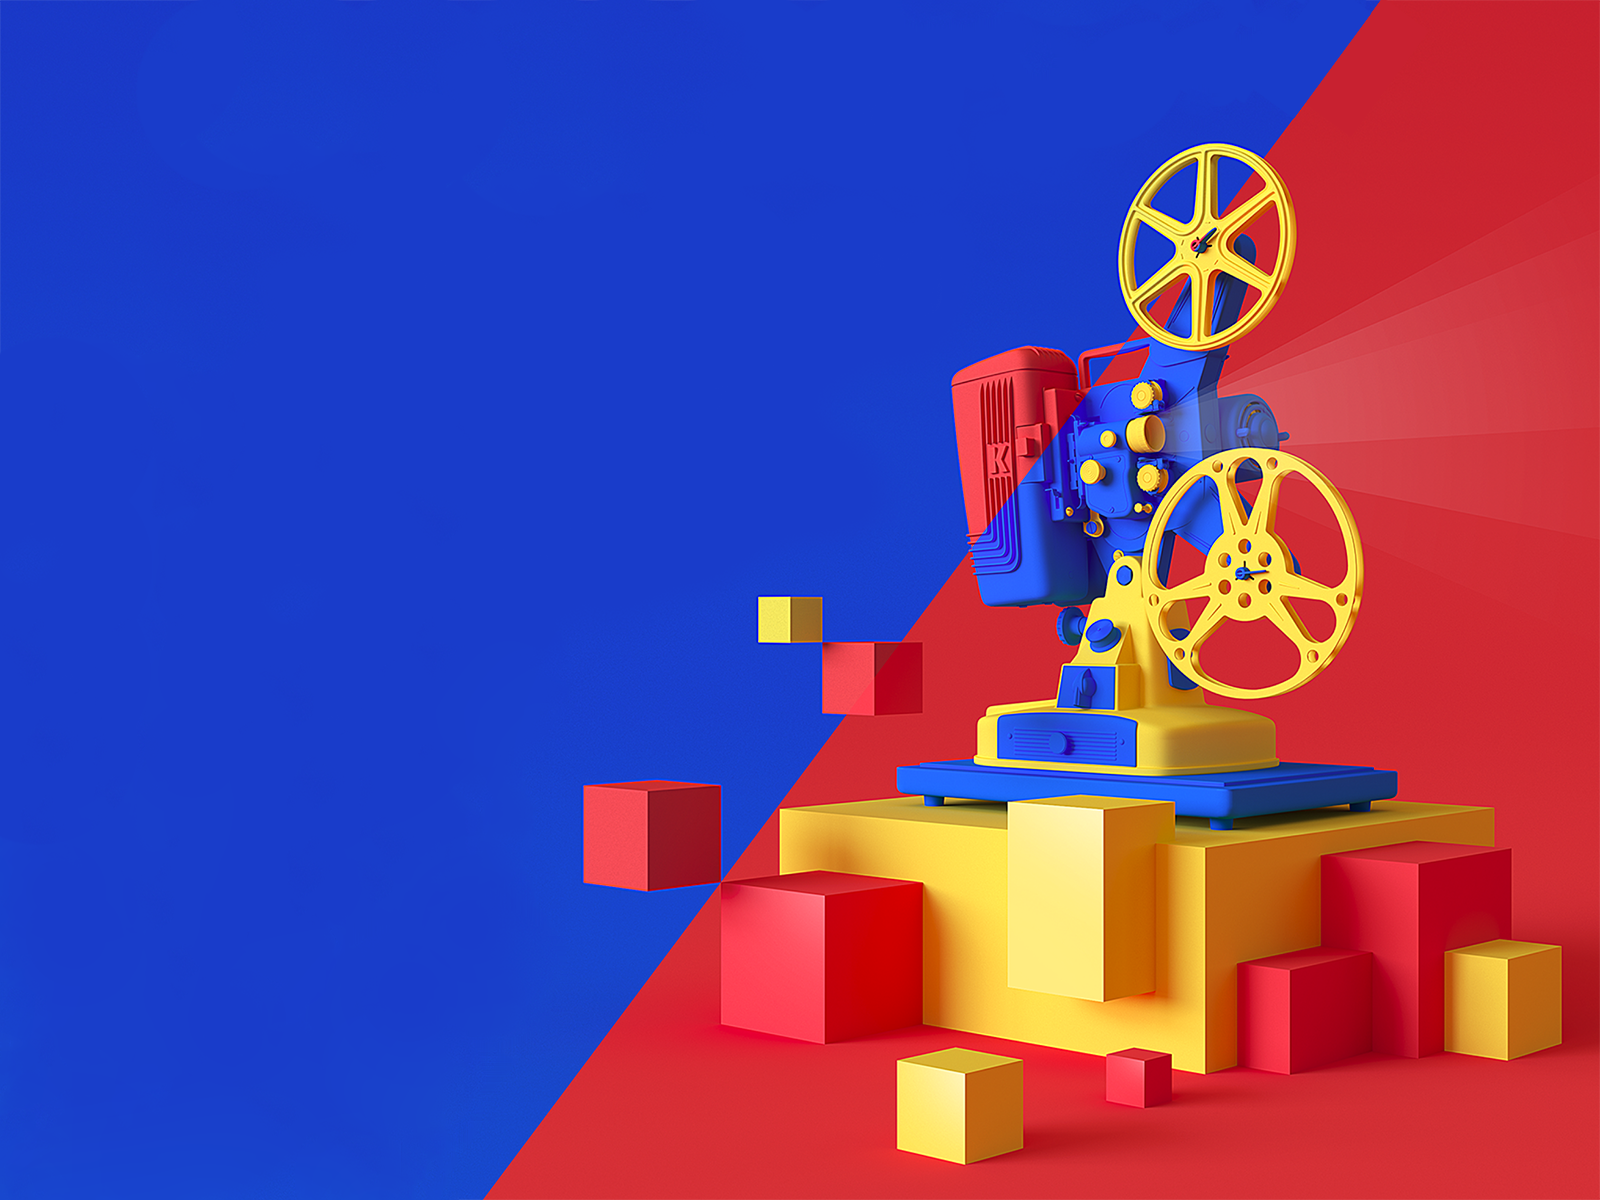
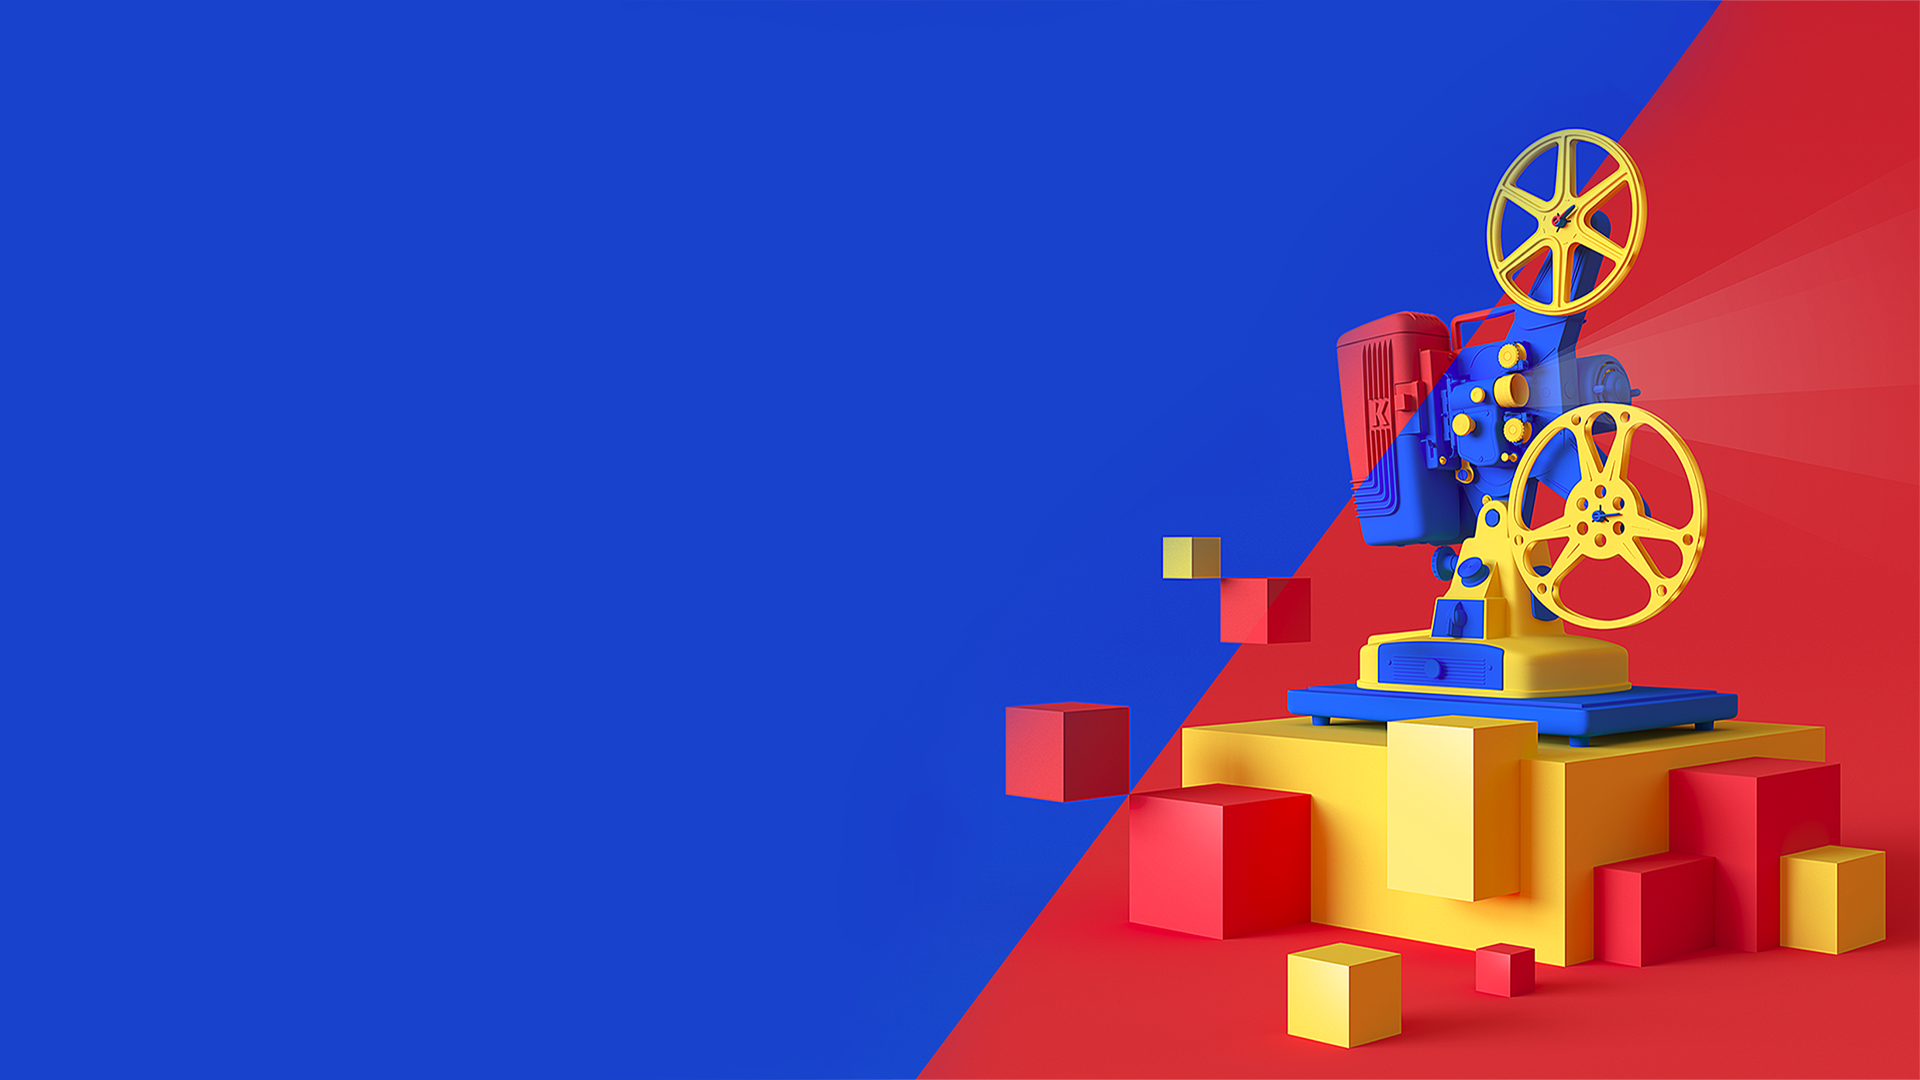
Pop-up ready

Changed region(s): [[0.2812, 0.0, 1.0, 1.0]]

diff --git a/style.css b/style.css
@@ -6,17 +6,16 @@
     /* border: 1px solid red; */
 }
 
-
-
 body {
     background-image: url('background.png');
-    min-height: 100vh;
-    max-height: 100%;
-    max-width: 100%;
-    background-size: cover;
+    /* min-height: 100vh; */
+    /* max-height: 100%;
+    max-width: 100%; */
+    /* background-size: contain; */
+    background-repeat: no-repeat;
     margin: 50px 200px 0px 200px;
     font-family: 'Montserrat', sans-serif;
-    
+    background-position: center center;
     height: 100%;
 }
 
@@ -37,11 +36,18 @@ nav li {
     padding: 0;
 }
 
+#signin,
 #signup {
+    color: #ffffff;
+    text-decoration: none;
+    padding: 20px 40px 20px 40px;
+}
+
+#signin:hover,
+#signup:hover {
     color: #000b60;
     background-color: #ffffff;
     border-radius: 5px;
-    padding: 20px 40px 20px 40px;
     font-weight: bold;
 }
 
@@ -54,6 +60,11 @@ header ul li {
     padding: 0;
     list-style: none;
     display: flex;
+}
+
+.leftButton {
+    text-decoration: none;
+    color: #ffffff;
 }
 
 #logo {
@@ -83,6 +94,8 @@ header ul li {
 }
 
 .button {
+    position: absolute;
+    text-decoration: none;
     border-radius: 8px;
     border: none;
     padding: 20px 30px;
@@ -91,18 +104,25 @@ header ul li {
     color: #ffffff;
     font-size: 12px;
     font-weight: 600;
+    cursor: pointer;
+    transition: all 0.3s ease-out;
 }
 
-a[title="home"] {
+.button:hover {
+    opacity: 0.8;
+}
+
+.leftButton:hover {
     border-bottom: 3px solid white;
 }
 
 .dots {
     display: flex;
+    height: 50px;
     justify-content: flex-start;
     padding-left: 0;
-	align-items: center;
-	margin-top: 150px;
+    align-items: center;
+    margin-top: 150px;
 }
 
 .dot {
@@ -114,9 +134,7 @@ a[title="home"] {
     margin-right: 20px;
 }
 
-
-
-#roundDot {
+/* #roundDot {
     height: 20px;
     width: 20px;
     background-color: none;
@@ -124,16 +142,94 @@ a[title="home"] {
     border-radius: 50%;
     display: inline-block;
     margin-right: 20px;
-    /* height: 13px;
-    width: 13px;
-    background-color: #4677ff;
+} */
+
+.dot:hover {
+    height: 20px;
+    width: 20px;
+    background-color: transparent;
+    border: 4px solid #ffb800;
     border-radius: 50%;
     display: inline-block;
-    margin-right: 20px; */
+    margin-right: 20px;
 }
 
 footer {
-    height: 100%;
     bottom: 0;
     flex-shrink: 0;
 }
+
+.overlay {
+    position: fixed;
+    top: 0;
+    bottom: 0;
+    left: 0;
+    right: 0;
+    background: rgba(0, 0, 0, 0.7);
+    transition: opacity 500ms;
+    visibility: hidden;
+    opacity: 0;
+}
+
+.overlay:target {
+    visibility: visible;
+    opacity: 1;
+}
+
+.popup {
+    margin: 70px auto;
+    padding: 20px;
+    background: #515E82;
+    border-radius: 5px;
+    height: 80%;
+    width: 40%;
+    position: relative;
+	transition: all 2s ease-in-out;
+	color: white;
+}
+
+.popup .close {
+    position: absolute;
+    top: 20px;
+    right: 30px;
+    transition: all 200ms;
+    font-size: 50px;
+    font-weight: bold;
+    text-decoration: none;
+    color: white;
+}
+
+.popup .content {
+    max-height: 30%;
+}
+
+.tab {
+    color: white;
+    border-color: #1161ee;
+    text-transform: uppercase;
+    font-size: 22px;
+    margin-right: 15px;
+    padding-bottom: 5px;
+    margin: 0 15px 10px 0;
+    display: inline-block;
+    border-bottom: 2px solid transparent;
+}
+
+.check {
+    display: none;
+}
+
+.sign-in:checked+.tab,
+.sign-up:checked+.tab {
+    border-bottom: 3px solid white;
+}
+
+input {
+    visibility: hidden;
+}
+.topButtons{
+
+	padding-top: 40px;
+
+}
+

diff --git a/index.html b/index.html
@@ -13,14 +13,14 @@
         <nav class="navigation">
             <img id="logo" src="Logo.png">
             <ul class="left">
-                <li><a title="home">HOME</a></li>
-                <li><a title="products">PRODUCTS</a></li>
-                <li><a title="templates">TEMPLATES</a></li>
-                <li><a title="pricing">PRICING</a></li>
+                <li><a href="index.html" class="leftButton" title="home">HOME</a></li>
+                <li><a href="#products" class="leftButton" title="products">PRODUCTS</a></li>
+                <li><a href="#products" class="leftButton" title="templates">TEMPLATES</a></li>
+                <li><a href="#pricing" class="leftButton" title="pricing">PRICING</a></li>
             </ul>
             <ul class="right">
-                <li><a title="signin">SIGN IN</a></li>
-                <li><a title="signup" id="signup">SIGN UP</a></li>
+                <li><a href="#signin" title="signin" id="signin">SIGN IN</a></li>
+                <li><a href="#signup" title="signup" id="signup">SIGN UP</a></li>
             </ul>
         </nav>
     </header>
@@ -33,19 +33,34 @@
                 <p class="text">for your ads, social media, blogs and websites.</p>
                 <p class="text">Make your project stand out!</p>
 
-            </article>
-            <button class="button" type="button">CREATE DESIGN ➜</button>
-        </section>
 
+            </article>
+            <a class="button" href="#popup1" type="button">CREATE DESIGN ➜</a>
+            <div id="popup1" class="overlay">
+                <div class="popup">
+                    <div class="topButtons">
+                        <input id="tab-1" type="radio" name="tab" class="sign-in" checked><label for="tab-1" class="tab">Sign
+                            In</label>
+                        <input id="tab-2" type="radio" name="tab" class="sign-up"><label for="tab-2" class="tab">Sign
+                            Up</label>
+
+                    </div>
+                    
+                    <a class="close" href="#">&times;</a>
+                    
+                </div>
+            </div>
+        </section>
     </main>
+
     <footer>
 
-<ul class="dots">
-    <li id="roundDot"></li>
-    <li class="dot"></li>
-    <li class="dot"></li>
-    <li class="dot"></li>
-</ul>
+        <ul class="dots">
+            <li class="dot" id="roundDot"></li>
+            <li class="dot"></li>
+            <li class="dot"></li>
+            <li class="dot"></li>
+        </ul>
 
     </footer>
 </body>
